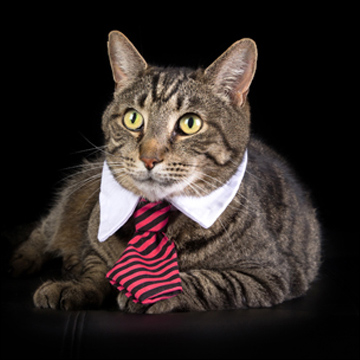
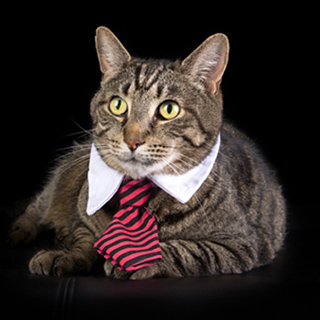
Avancement gansep2016

diff --git a/templates/gan_suiviexpertpro_2016/newsletter-inline.html b/templates/gan_suiviexpertpro_2016/newsletter-inline.html
@@ -836,6 +836,9 @@ color: #464c4e !important;
   table[class="body"] .contentBottom td .title {
     text-align: left !important;
   }
+  table[class="body"] .contentAuthor img {
+    width: 120px !important; height: 120px !important;
+  }
   table[class="body"] .contentFooter td.wrapper {
     padding-top: 10px !important;
   }
@@ -1981,6 +1984,26 @@ color: #464c4e !important;
 											<table border="0" class="twelve columns" style="-premailer-cellpadding: 0; -premailer-cellspacing: 0; -premailer-width: 720; border-collapse: collapse; border-spacing: 0; empty-cells: hide; margin: 0 auto; mso-table-lspace: 0pt; mso-table-rspace: 0pt; padding: 0; text-align: left; vertical-align: top; width: 720px" width="720" cellpadding="0" cellspacing="0">
 												<tr style="padding: 0; text-align: left; vertical-align: top" align="left">
 													<td class="text-pad" style="-moz-hyphens: none; -ms-hyphens: none; -webkit-hyphens: none; border-collapse: collapse !important; color: #ffffff; font-family: 'Helvetica Neue', Helvetica, Arial, sans-serif; font-size: 14px; font-weight: normal; hyphens: none; line-height: 18px; margin: 0; padding: 0px 40px 20px; text-align: left; vertical-align: top; word-break: break-word" align="left" valign="top">
+														<table border="0" class="subWrapper" align="left" style="-premailer-cellpadding: 0; -premailer-cellspacing: 0; border-collapse: collapse; border-spacing: 0; empty-cells: hide; mso-table-lspace: 0pt; mso-table-rspace: 0pt; padding: 0; text-align: left; vertical-align: top" cellpadding="0" cellspacing="0">
+															<tr style="padding: 0; text-align: left; vertical-align: top" align="left">
+																<td class="text-pad-right" style="-moz-hyphens: none; -ms-hyphens: none; -webkit-hyphens: none; border-collapse: collapse !important; color: #ffffff; font-family: 'Helvetica Neue', Helvetica, Arial, sans-serif; font-size: 14px; font-weight: normal; hyphens: none; line-height: 18px; margin: 0; padding: 0px 40px 0px 0px; text-align: left; vertical-align: top; word-break: break-word" align="left" valign="top">
+																	<!--{{##{{<champ>
+																	<type>image</type>
+																	<src>}}--><a data-type="gethref" href="http://newsletter-templates.lesechos-publishing.fr/templates/gan_suiviexpertpro_2016/theme/images/author.jpg" style="color: #ffffff; text-decoration: none"><!--gethref--></a><!--{{</src>
+																	<lien></lien>
+																	<survol></survol>
+																	<width>160</width>
+																	<height>160</height>
+																	<width_max>320</width_max>
+																	<height_max>320</height_max>
+																	<params>}}-->
+																	<img data-type="getstyle" style="-ms-interpolation-mode: bicubic; clear: both; display: block; float: left; height: 180px; max-width: 100%; outline: none; text-decoration: none; width: 180px" align="left" /><!--getstyle-->
+																	<!--{{</params>
+																	</champ>}}##}}-->
+																	<!--DEL{{--><img src="http://newsletter-templates.lesechos-publishing.fr/templates/gan_suiviexpertpro_2016/theme/images/author.jpg" width="160" height="160" alt="" style="-ms-interpolation-mode: bicubic; clear: both; display: block; float: left; height: 180px; max-width: 100%; outline: none; text-decoration: none; width: 180px" align="left" /><!--}}DEL-->
+																</td>
+															</tr>
+														</table>
 														Lorem ipsum dolor sit amet, consectetur adipisicing elit. Vel, obcaecati, molestias molestiae sit maiores fugiat, quis doloremque et dolorem explicabo dolor! Dolores adipisci dolor natus sint. Ut quod delectus recusandae!
 													</td>
 												</tr>

diff --git a/templates/gan_suiviexpertpro_2016/newsletter-inline-postanova.html b/templates/gan_suiviexpertpro_2016/newsletter-inline-postanova.html
@@ -836,6 +836,9 @@ color: #464c4e !important;
   table[class="body"] .contentBottom td .title {
     text-align: left !important;
   }
+  table[class="body"] .contentAuthor img {
+    width: 120px !important; height: 120px !important;
+  }
   table[class="body"] .contentFooter td.wrapper {
     padding-top: 10px !important;
   }
@@ -1981,6 +1984,26 @@ color: #464c4e !important;
 											<table border="0" class="twelve columns" style="border-collapse: collapse; border-spacing: 0; empty-cells: hide; margin: 0 auto; mso-table-lspace: 0pt; mso-table-rspace: 0pt; padding: 0; text-align: left; vertical-align: top; width: 720px" width="720" cellpadding="0" cellspacing="0">
 												<tr style="padding: 0; text-align: left; vertical-align: top" align="left">
 													<td class="text-pad" style="-moz-hyphens: none; -ms-hyphens: none; -webkit-hyphens: none; border-collapse: collapse !important; color: #ffffff; font-family: 'Helvetica Neue', Helvetica, Arial, sans-serif; font-size: 14px; font-weight: normal; hyphens: none; line-height: 18px; margin: 0; padding: 0px 40px 20px; text-align: left; vertical-align: top; word-break: break-word" align="left" valign="top">
+														<table border="0" class="subWrapper" align="left" style="border-collapse: collapse; border-spacing: 0; empty-cells: hide; mso-table-lspace: 0pt; mso-table-rspace: 0pt; padding: 0; text-align: left; vertical-align: top" cellpadding="0" cellspacing="0">
+															<tr style="padding: 0; text-align: left; vertical-align: top" align="left">
+																<td class="text-pad-right" style="-moz-hyphens: none; -ms-hyphens: none; -webkit-hyphens: none; border-collapse: collapse !important; color: #ffffff; font-family: 'Helvetica Neue', Helvetica, Arial, sans-serif; font-size: 14px; font-weight: normal; hyphens: none; line-height: 18px; margin: 0; padding: 0px 40px 0px 0px; text-align: left; vertical-align: top; word-break: break-word" align="left" valign="top">
+																	<?<champ>
+																	<type>image</type>
+																	<src>http://newsletter-templates.lesechos-publishing.fr/templates/gan_suiviexpertpro_2016/theme/images/author.jpg</src>
+																	<lien></lien>
+																	<survol></survol>
+																	<width>160</width>
+																	<height>160</height>
+																	<width_max>320</width_max>
+																	<height_max>320</height_max>
+																	<params>
+																	style="-ms-interpolation-mode: bicubic; clear: both; display: block; float: left; height: 180px; max-width: 100%; outline: none; text-decoration: none; width: 180px" align="left" 
+																	</params>
+																	</champ>?>
+																	
+																</td>
+															</tr>
+														</table>
 														Lorem ipsum dolor sit amet, consectetur adipisicing elit. Vel, obcaecati, molestias molestiae sit maiores fugiat, quis doloremque et dolorem explicabo dolor! Dolores adipisci dolor natus sint. Ut quod delectus recusandae!
 													</td>
 												</tr>

diff --git a/templates/gan_suiviexpertpro_2016/newsletter.html b/templates/gan_suiviexpertpro_2016/newsletter.html
@@ -1123,6 +1123,26 @@
 											<table border="0" class="twelve columns">
 												<tr>
 													<td class="text-pad">
+														<table border="0" class="subWrapper" align="left">
+															<tr>
+																<td class="text-pad-right">
+																	<!--{{##{{<champ>
+																	<type>image</type>
+																	<src>}}--><a data-type="gethref" href="./theme/images/author.jpg"><!--gethref--></a><!--{{</src>
+																	<lien></lien>
+																	<survol></survol>
+																	<width>160</width>
+																	<height>160</height>
+																	<width_max>320</width_max>
+																	<height_max>320</height_max>
+																	<params>}}-->
+																	<img data-type="getstyle" /><!--getstyle-->
+																	<!--{{</params>
+																	</champ>}}##}}-->
+																	<!--DEL{{--><img src="./theme/images/author.jpg" width="160" height="160" alt="" /><!--}}DEL-->
+																</td>
+															</tr>
+														</table>
 														Lorem ipsum dolor sit amet, consectetur adipisicing elit. Vel, obcaecati, molestias molestiae sit maiores fugiat, quis doloremque et dolorem explicabo dolor! Dolores adipisci dolor natus sint. Ut quod delectus recusandae!
 													</td>
 												</tr>

diff --git a/templates/gan_suiviexpertpro_2016/theme/css/style.css b/templates/gan_suiviexpertpro_2016/theme/css/style.css
@@ -1563,6 +1563,16 @@ table.imgCont .icon-img {
   color: #ffffff !important;
 }
 
+.contentAuthor img {
+  width: 180px;
+  height: 180px;
+}
+
+.contentAuthor table.columns table.subWrapper td,
+.contentAuthor table.column table.subWrapper td {
+  padding-bottom: 0px;
+}
+
 .contentFooter td.wrapper {
   padding-top: 10px;
 }
@@ -1912,6 +1922,11 @@ table.imgCont .icon-img {
   table[class="body"] .contentBottom td,
   table[class="body"] .contentBottom td .title {
     text-align: left !important;
+  }
+
+  table[class="body"] .contentAuthor img {
+    width: 120px !important;
+    height: 120px !important;
   }
 
   table[class="body"] .contentFooter td.wrapper {

diff --git a/templates/gan_suiviexpertpro_2016/theme/less/style.less b/templates/gan_suiviexpertpro_2016/theme/less/style.less
@@ -319,6 +319,26 @@ table.imgCont {
 .contentAuthor {
 	background-color: @colorGan1;
 	.newsletterInnerTextColor(#ffffff);
+
+	img {
+		width: 180px;
+		height: 180px;
+	}
+
+
+	table.columns, table.column {
+		table.subWrapper {
+			td { padding-bottom: 0px; }
+		}
+	}
+}
+@media only screen and (max-width: (@containerWidth + @gutterWidth)) {
+	table[class="body"] .contentAuthor {
+		img {
+			width: 120px !important;
+			height: 120px !important;
+		}
+	}
 }
 
 
